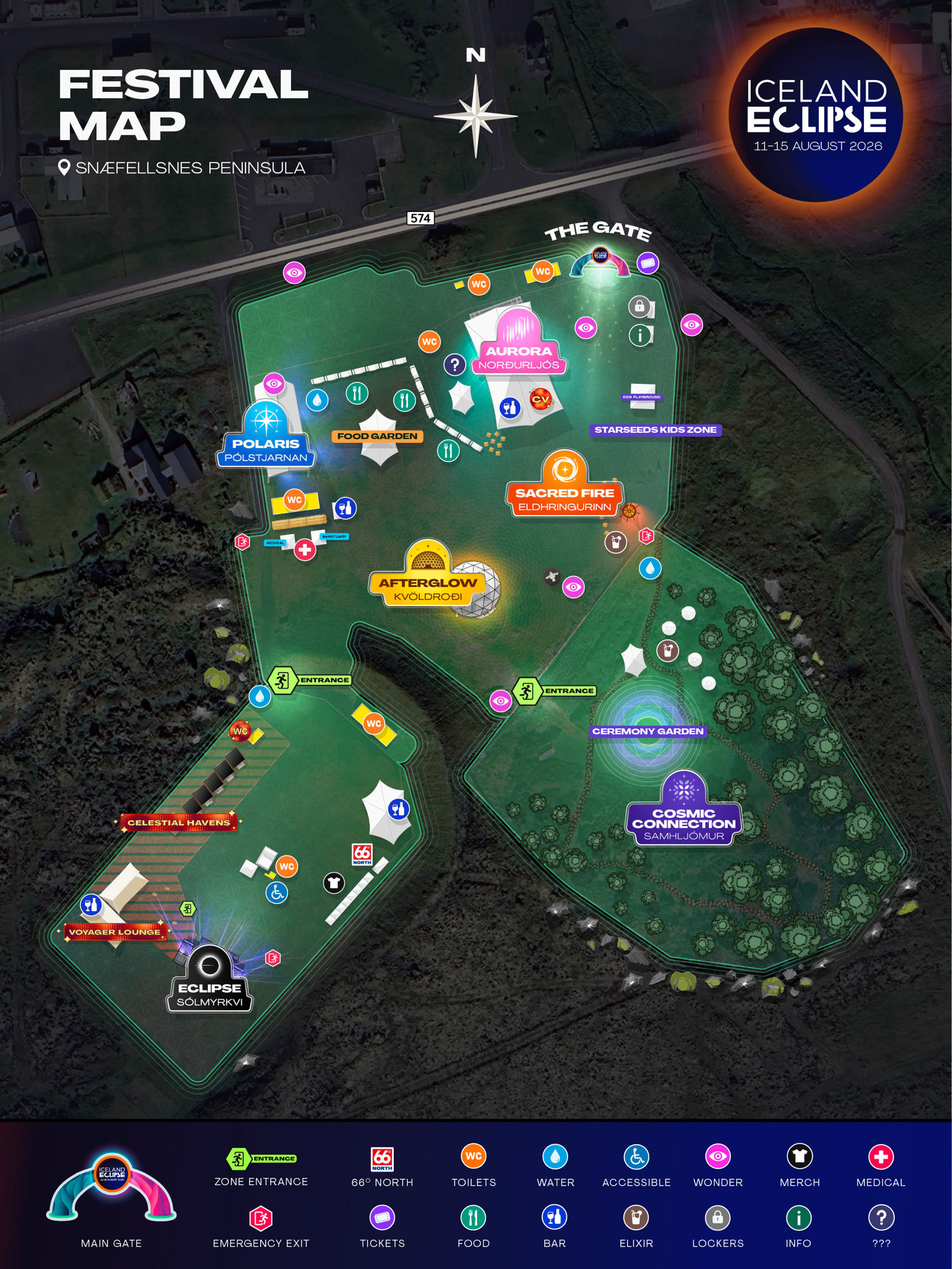
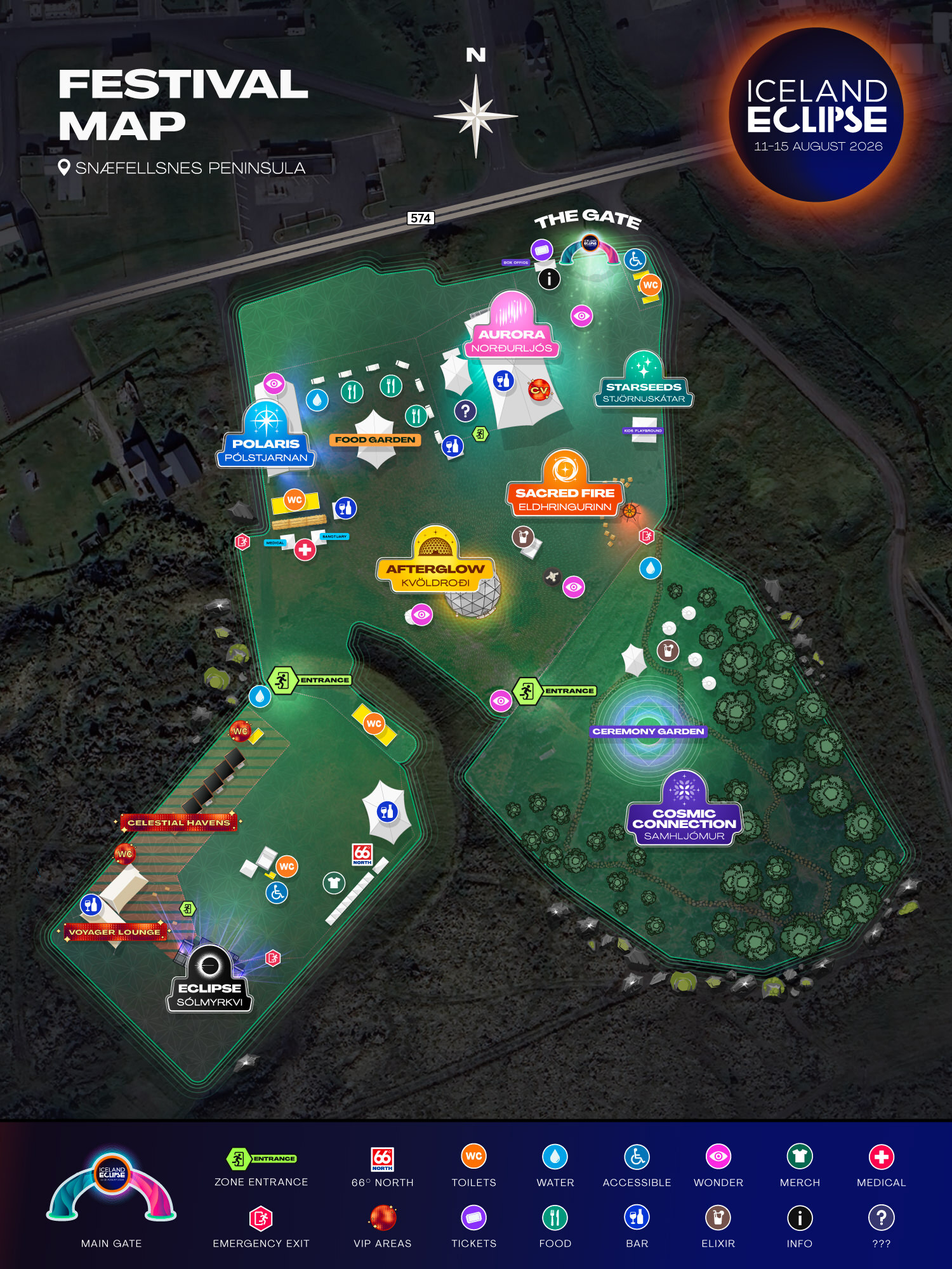
map: replace festival map with final version from design (1500x2000)

diff --git a/src/app/[locale]/map/page.tsx b/src/app/[locale]/map/page.tsx
@@ -13,7 +13,7 @@ export async function generateMetadata({ params }: PageProps): Promise<Metadata>
 export default function MapPage() {
   return (
     <div className="fixed inset-x-0 top-16 bottom-[calc(3.75rem+env(safe-area-inset-bottom))] overflow-hidden bg-eclipse-black">
-      <MapViewer src="/festival-map.jpg" width={1501} height={2000} />
+      <MapViewer src="/festival-map.jpg" width={1500} height={2000} />
     </div>
   );
 }
